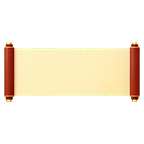
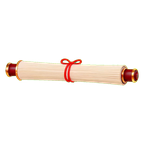
feat(web): 首页货币图标缩小 + 卷轴图标重做为卷起精致款
- 首页金币/卷轴胶囊图标 40→26px，不再过大
- 卷轴图标 icon_scroll 重新用 seedream 生成：卷起收拢(未展开)的宣纸横卷，
  红木镶金卷轴杆 + 红丝带系束，更精致；新增 scripts/regen-scroll.py

Changed region(s): [[0.0278, 0.2778, 0.9722, 0.7222]]

diff --git a/web/src/styles.css b/web/src/styles.css
@@ -855,8 +855,8 @@ button:disabled {
   border-radius: 999px;
 }
 .profile .currency img {
-  width: 40px;
-  height: 40px;
+  width: 26px;
+  height: 26px;
 }
 .ops-row {
   display: flex;

diff --git a/scripts/regen-scroll.py b/scripts/regen-scroll.py
@@ -1,0 +1,43 @@
+# /// script
+# requires-python = ">=3.10"
+# dependencies = ["requests", "pillow", "numpy"]
+# ///
+"""重新生成卷轴图标 icon_scroll.png：卷起收拢(未展开)的精致古风卷轴。绿底抠透明、居中成方。
+跑法(仓库根目录)：ARK_API_KEY=xxx uv run scripts/regen-scroll.py"""
+import os, sys
+sys.path.insert(0, os.path.dirname(__file__))
+from _seedream import generate, chroma_key, save_scaled
+from PIL import Image
+
+OUT = "web/src/assets/img"
+GREEN = "纯绿色背景(#00ff00)，正面平视，无投影到背景，主体绝不使用绿色"
+
+
+def trim(im: Image.Image, pad: int = 1) -> Image.Image:
+    im = im.convert("RGBA")
+    bb = im.split()[3].getbbox()
+    if not bb:
+        return im
+    l, t, r, b = bb
+    l = max(0, l - pad); t = max(0, t - pad)
+    r = min(im.width, r + pad); b = min(im.height, b + pad)
+    return im.crop((l, t, r, b))
+
+
+def square(im: Image.Image, pad_ratio: float = 0.08) -> Image.Image:
+    """居中贴到正方透明画布，避免 resize 成正方被拉伸。"""
+    im = trim(im, 1)
+    side = int(max(im.width, im.height) * (1 + pad_ratio))
+    canvas = Image.new("RGBA", (side, side), (0, 0, 0, 0))
+    canvas.paste(im, ((side - im.width) // 2, (side - im.height) // 2), im)
+    return canvas
+
+
+scroll = generate(
+    f"{GREEN}，一枚古风卷轴图标，一卷收拢卷起、尚未展开的宣纸卷轴，"
+    f"圆柱形横放，两端为红木镶金的卷轴杆，纸卷层次细腻，中段系一道红色丝带，"
+    f"精致小巧，古典立体有光泽与描金高光，正面平视，居中，单个物体，图标风格，简洁干净"
+)
+scroll = square(chroma_key(scroll, "green"))
+save_scaled(scroll, f"{OUT}/icon_scroll.png", 48, 48)
+print("SCROLL REGENERATED")
